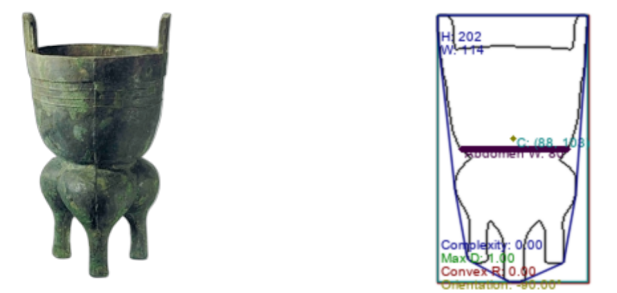
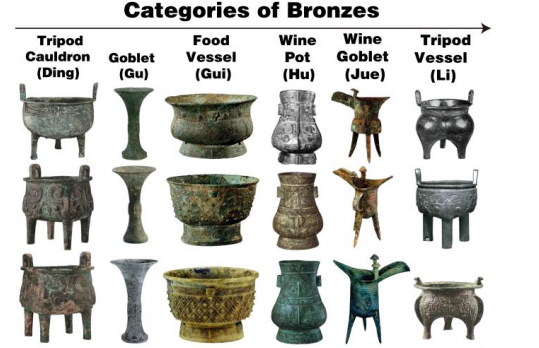
替换图片

diff --git a/index.html b/index.html
@@ -90,7 +90,7 @@
           <div class="project-images">
             <img src="assets/project2_img1.png" alt="Project 2 Image 1">
             <img src="assets/project2_img2.png" alt="Project 2 Image 2">
-            <img src="assets/project2_img3.jpg" alt="Project 2 Image 3">
+            <img src="assets/project2_img3.png" alt="Project 2 Image 3">
           </div>
           <a href="projects/project2.html">View Details</a>
         </div>